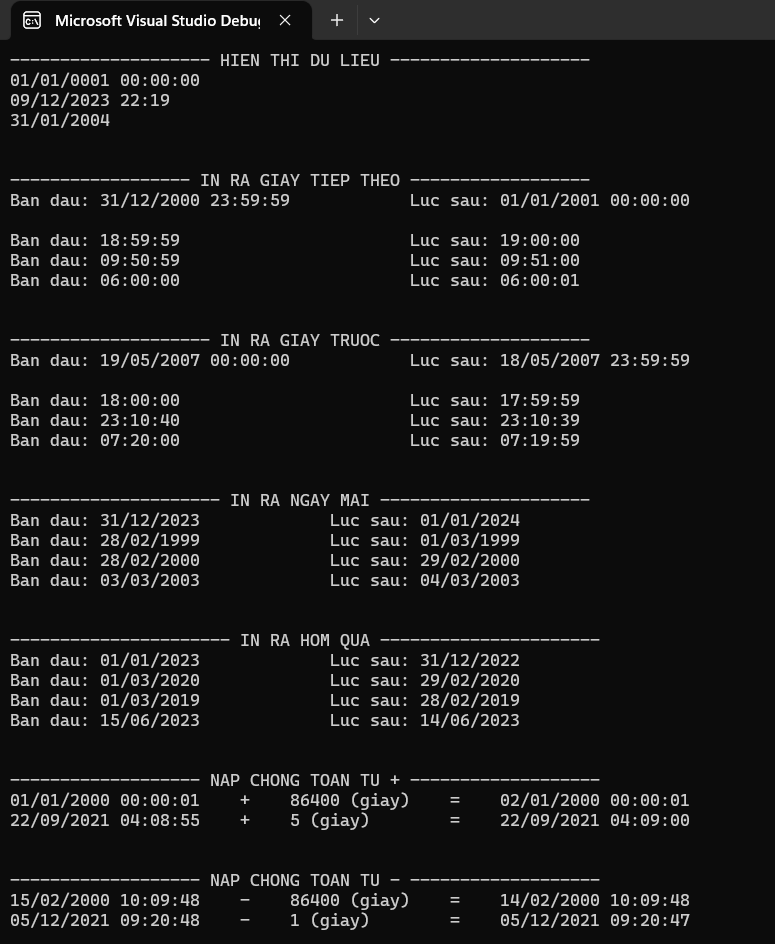
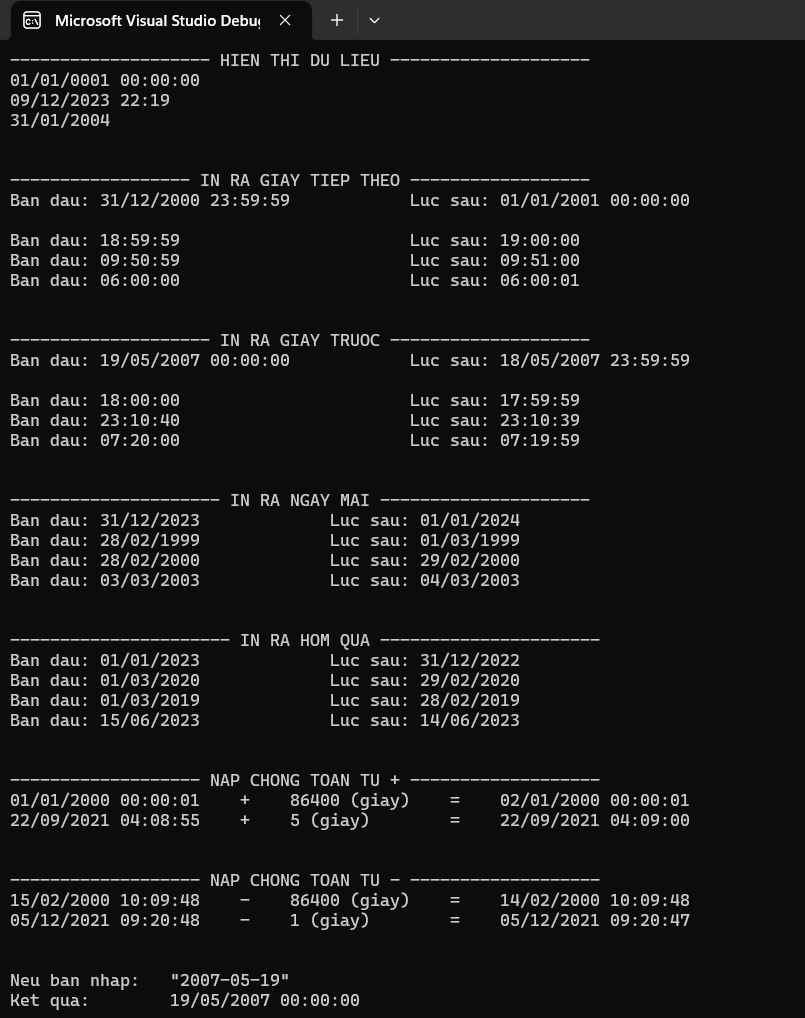
cap nhat

diff --git a/Program.cs b/Program.cs
@@ -29,6 +29,38 @@ namespace MyApp
             giay = data_giay;
         }
 
+        // nạp chồng hàm khởi tạo có tham số
+        // ví dụ bạn nhập "01/01/2023"
+        // thì nó sẽ tự động nhận dạng cho bạn
+        public ThoiGian(string str)
+        {
+            if (str.Contains("/") == true)
+            {
+                // nếu chuỗi string có định dạng "dd/MM/yyyy"
+                // chuyển string sang mảng
+                string[] arr = str.Split("/");
+
+                ngay = Convert.ToInt32(arr[0]);
+                thang = Convert.ToInt32(arr[1]);
+                nam = Convert.ToInt32(arr[2]);
+            }
+            else if (str.Contains("-") == true)
+            {
+                // nếu chuỗi string có định dạng "yyyy-MM-dd"
+                // chuyển string sang mảng
+                string[] arr = str.Split("-");
+
+                nam = Convert.ToInt32(arr[0]);
+                thang = Convert.ToInt32(arr[1]);
+                ngay = Convert.ToInt32(arr[2]);
+            }
+
+            // giờ, phút, giây thì tự động bằng 0
+            gio = 0;
+            phut = 0;
+            giay = 0;
+        }
+
         // nạp chồng phương thức ToString
         public string ToString(string dinh_dang = "")
         {
@@ -413,6 +445,12 @@ namespace MyApp
             ThoiGian dt23 = new ThoiGian(5, 12, 2021, 9, 20, 48);
             ThoiGian hieu2 = dt23 - 1;
             Console.WriteLine($"{dt23.ToString("dd/MM/yyyy hh:mm:ss")}    -    {"1 (giay)",-15} =    {hieu2.ToString("dd/MM/yyyy hh:mm:ss")}");
+
+
+            // định dạng thời gian
+            // ngay từ lúc khởi tạo
+            ThoiGian thoiGian = new ThoiGian("2007-05-19");
+            Console.WriteLine($"\n\nNeu ban nhap:\t\"2007-05-19\"\nKet qua:\t{thoiGian.ToString()}");
         }
     }
 }
